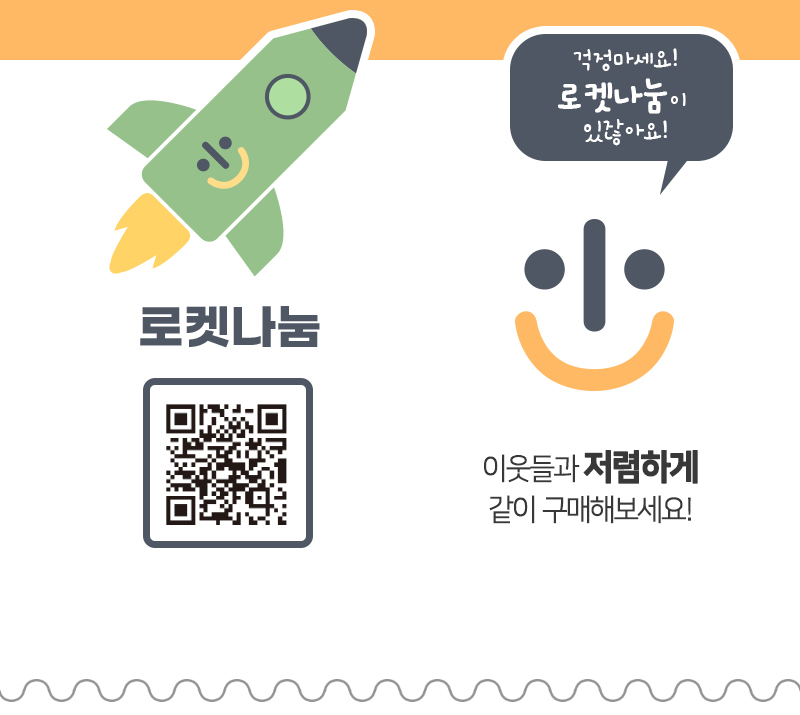
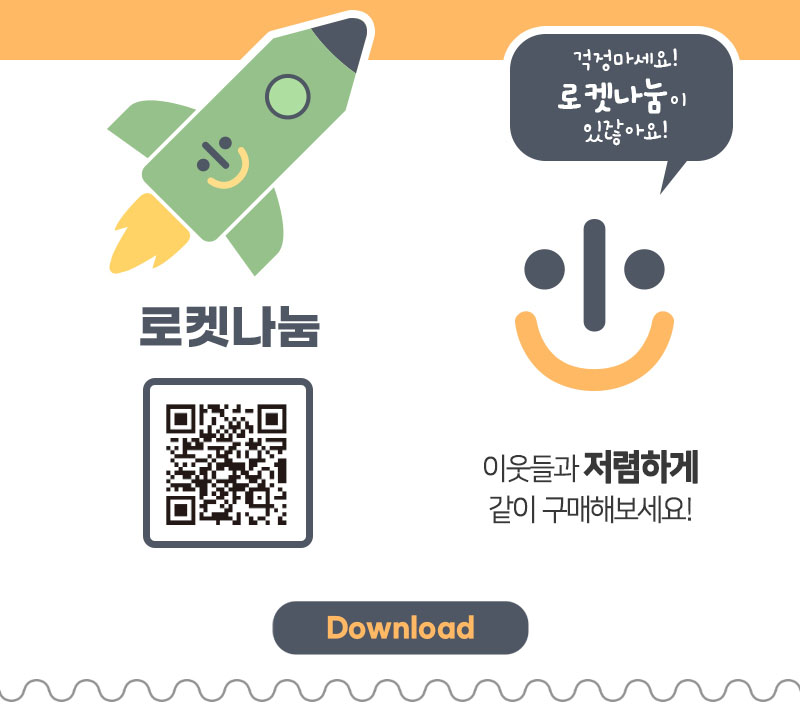
add link

Changed region(s): [[0.3125, 0.8308, 0.6875, 0.9231]]

diff --git a/nanulbun/assets/banner/rocket_nanum/rocket_nanum.html b/nanulbun/assets/banner/rocket_nanum/rocket_nanum.html
@@ -8,13 +8,19 @@
 		height: auto;
 		display: block;
 	}
+    .link_img {
+        cursor:pointer;
+    }
 </style>
 </head>
 <body bgcolor="#FFFFFF" leftmargin="0" topmargin="0" marginwidth="0" marginheight="0">
 <img src="1.jpg" alt="">
-<img src="2.jpg" alt="">
+<img src="2-1.jpg">
+<a class="link_img" href="https://www.chordoncode.com/nanulbun/share.html" target="_blank">
+    <img class="link_img" src="2-2.jpg">
+</a>
+<img src="2-3.jpg">
 <img src="3.jpg" alt="">
 <img src="4.jpg" alt="">
-<!-- End Save for Web Slices -->
 </body>
 </html>
